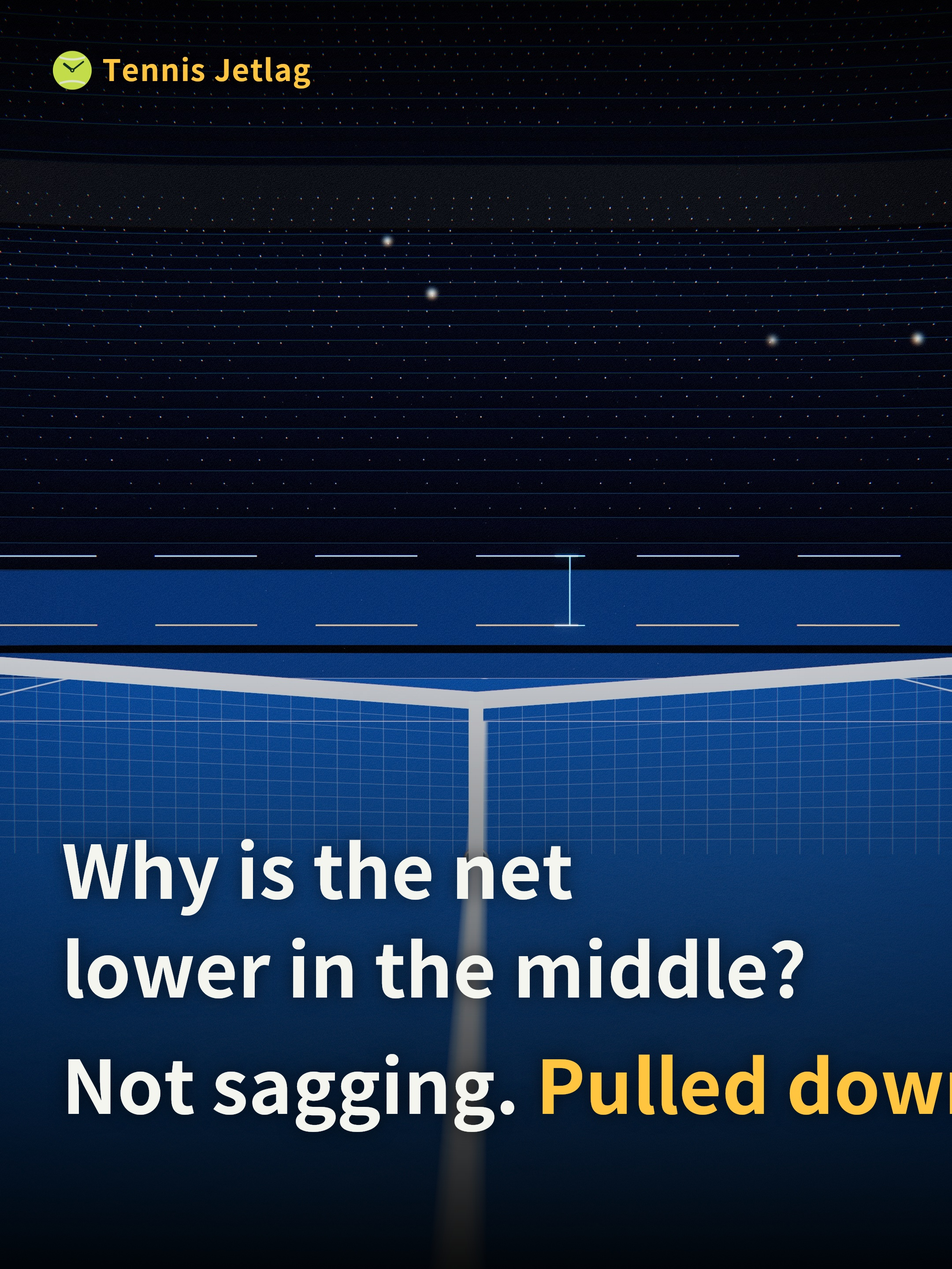
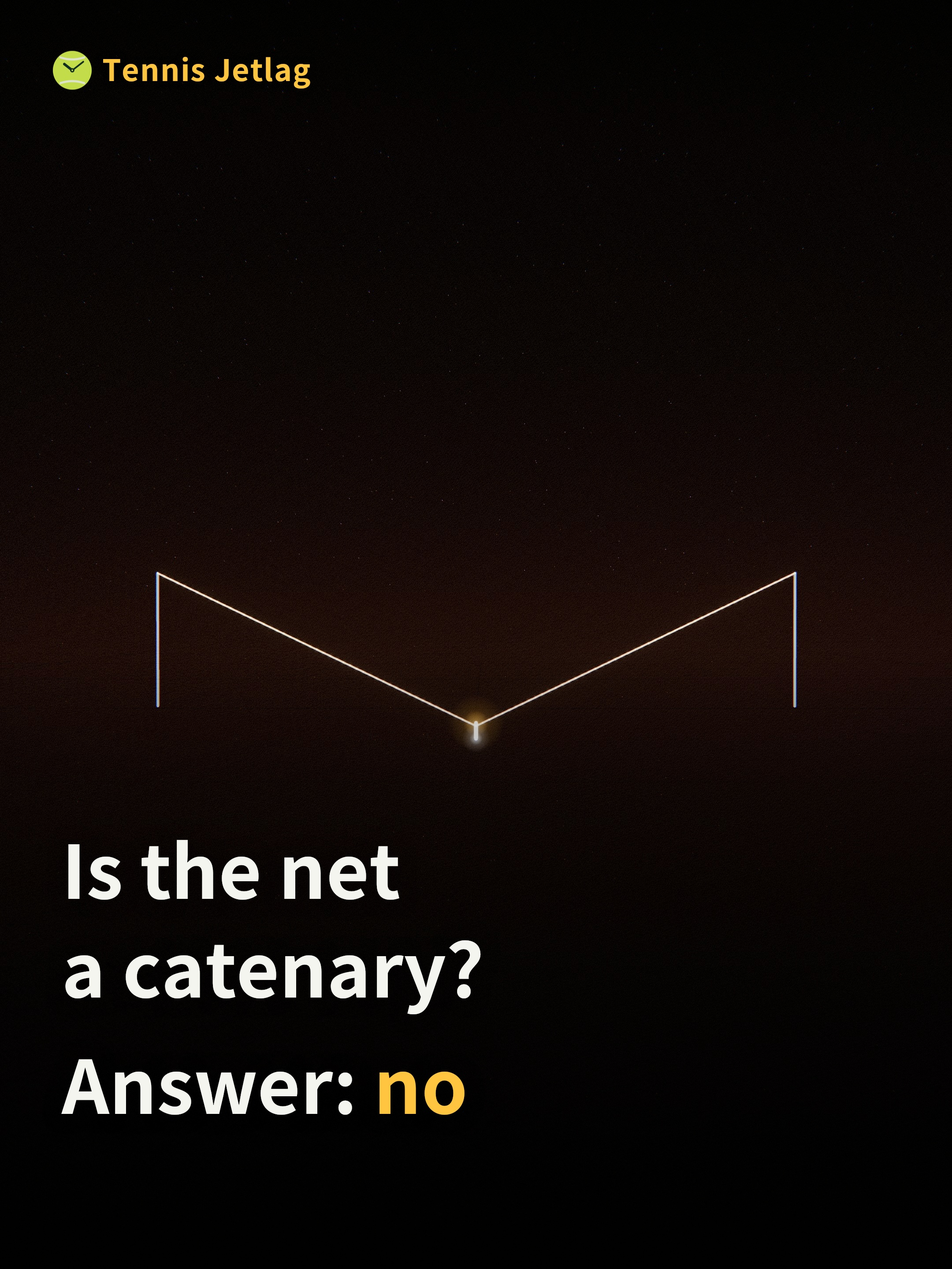
vibetennis: EP13 英文版（无配音，英文画面文字与字幕）成片落库，合并后自动推送 EP13.vibetennis|Dip

diff --git a/output/2026-11-22/vibetennis/vibetennis-net-dip-2026-en/copy.html b/output/2026-11-22/vibetennis/vibetennis-net-dip-2026-en/copy.html
@@ -1,0 +1,318 @@
+<!doctype html>
+<html lang="zh-CN">
+<head>
+  <meta charset="utf-8">
+  <meta name="viewport" content="width=device-width,initial-scale=1,viewport-fit=cover">
+  <title>复制发布文案</title>
+  <style>
+
+:root {
+  --tl-brand-bar: linear-gradient(90deg,#c6f65a 0%,#37e29a 34%,#ff5a6a 67%,#4bb8ff 100%);
+  --tl-radius: 10px;
+  --tl-radius-sm: 6px;
+  --tl-radius-md: 8px;
+  --tl-radius-lg: 10px;
+  --tl-radius-xl: 14px;
+  --tl-radius-full: 999px;
+  --tl-radius-hairline: 2px;
+  --tl-text-xs: 12px;
+  --tl-text-sm: 13px;
+  --tl-text-base: 15px;
+  --tl-text-lg: 18px;
+  --tl-text-xl: 22px;
+  --tl-text-2xl: 28px;
+  --tl-font-sans: -apple-system,"PingFang SC","Noto Sans CJK SC","Microsoft YaHei",sans-serif;
+  --tl-duration-press: 120ms;
+  --tl-duration-quick: 150ms;
+  --tl-duration-fast: 250ms;
+  --tl-duration-medium: 350ms;
+  --tl-duration-slow: 400ms;
+  --tl-duration-emphasis: 500ms;
+  --tl-duration-stagger: 40ms;
+  --tl-ease-out: cubic-bezier(0.22,1,0.36,1);
+  --tl-ease-spring: cubic-bezier(0.34,1.35,0.64,1);
+}
+
+:root[data-theme="dark"] {
+  color-scheme: dark;
+  --tl-background: #080e1d;
+  --tl-card: #15243a;
+  --tl-muted: #20324e;
+  --tl-hero-glow: #304d76;
+  --tl-foreground: #f4fbf7;
+  --tl-subtitle-foreground: #e7f3ec;
+  --tl-muted-foreground: #cfe6d8;
+  --tl-subtle-foreground: #a9bcb2;
+  --tl-border: #ffffff1a;
+  --tl-input: #ffffff26;
+  --tl-ring: #c6f65a8c;
+  --tl-primary: #c6f65a;
+  --tl-primary-foreground: #080e1d;
+  --tl-secondary: #20324e;
+  --tl-secondary-foreground: #f4fbf7;
+  --tl-link: #cfe6d8;
+  --tl-success: #4adc8c;
+  --tl-warning: #ffd166;
+  --tl-destructive: #ff5a6a;
+  --tl-info: #4bb8ff;
+  --tl-fill: #8fd6a8;
+  --tl-success-chip: #143927;
+  --tl-warning-chip: #2d3722;
+  --tl-destructive-chip: #2d2623;
+  --tl-info-chip: #143437;
+  --tl-chart-1: #c6f65a;
+  --tl-chart-2: #8fd6a8;
+  --tl-chart-3: #8b9892;
+  --tl-chart-4: #5d6b65;
+  --tl-chart-5: #3a4a44;
+  --tl-shadow-card: 0 0 0 1px rgba(255,255,255,.10);
+  --tl-shadow-raised: 0 0 0 1px rgba(255,255,255,.13),0 1px 2px rgba(0,0,0,.2),0 2px 6px rgba(0,0,0,.2);
+  --tl-shadow-overlay: 0 0 0 1px rgba(255,255,255,.15),0 8px 28px rgba(0,0,0,.34);
+}
+
+:root[data-theme="light"] {
+  color-scheme: light;
+  --tl-background: #f6f7f4;
+  --tl-card: #ffffff;
+  --tl-muted: #eef2ef;
+  --tl-foreground: #17251f;
+  --tl-muted-foreground: #5f6f68;
+  --tl-subtle-foreground: #5f6f68;
+  --tl-border: #e6ebe8;
+  --tl-input: #d8e2dc;
+  --tl-ring: #17251f;
+  --tl-primary: #c6f65a;
+  --tl-primary-foreground: #080e1d;
+  --tl-secondary: #20324e;
+  --tl-secondary-foreground: #ffffff;
+  --tl-link: #5f6f68;
+  --tl-success: #087747;
+  --tl-warning: #846405;
+  --tl-destructive: #c0392b;
+  --tl-info: #0a6ea4;
+  --tl-success-chip: #e1efe9;
+  --tl-warning-chip: #f0ece1;
+  --tl-destructive-chip: #f7e7e6;
+  --tl-info-chip: #e2eef4;
+  --tl-shadow-card: 0 0 0 1px rgba(0,0,0,.06),0 1px 3px rgba(0,0,0,.04);
+  --tl-shadow-raised: 0 0 0 1px rgba(0,0,0,.08),0 1px 2px rgba(0,0,0,.06),0 2px 6px rgba(0,0,0,.06);
+  --tl-shadow-overlay: 0 4px 42px rgba(0,0,0,.06),0 2px 6px rgba(0,0,0,.05),0 0 0 1px rgba(0,0,0,.06);
+}
+
+:root:not([data-theme="light"]):not([data-theme="dark"]) {
+  color-scheme: light;
+  --tl-background: #f6f7f4;
+  --tl-card: #ffffff;
+  --tl-muted: #eef2ef;
+  --tl-foreground: #17251f;
+  --tl-muted-foreground: #5f6f68;
+  --tl-subtle-foreground: #5f6f68;
+  --tl-border: #e6ebe8;
+  --tl-input: #d8e2dc;
+  --tl-ring: #17251f;
+  --tl-primary: #c6f65a;
+  --tl-primary-foreground: #080e1d;
+  --tl-secondary: #20324e;
+  --tl-secondary-foreground: #ffffff;
+  --tl-link: #5f6f68;
+  --tl-success: #087747;
+  --tl-warning: #846405;
+  --tl-destructive: #c0392b;
+  --tl-info: #0a6ea4;
+  --tl-success-chip: #e1efe9;
+  --tl-warning-chip: #f0ece1;
+  --tl-destructive-chip: #f7e7e6;
+  --tl-info-chip: #e2eef4;
+  --tl-shadow-card: 0 0 0 1px rgba(0,0,0,.06),0 1px 3px rgba(0,0,0,.04);
+  --tl-shadow-raised: 0 0 0 1px rgba(0,0,0,.08),0 1px 2px rgba(0,0,0,.06),0 2px 6px rgba(0,0,0,.06);
+  --tl-shadow-overlay: 0 4px 42px rgba(0,0,0,.06),0 2px 6px rgba(0,0,0,.05),0 0 0 1px rgba(0,0,0,.06);
+}
+
+@media (prefers-color-scheme: dark) {
+  :root:not([data-theme="light"]):not([data-theme="dark"]) {
+    color-scheme: dark;
+    --tl-background: #080e1d;
+    --tl-card: #15243a;
+    --tl-muted: #20324e;
+    --tl-hero-glow: #304d76;
+    --tl-foreground: #f4fbf7;
+    --tl-subtitle-foreground: #e7f3ec;
+    --tl-muted-foreground: #cfe6d8;
+    --tl-subtle-foreground: #a9bcb2;
+    --tl-border: #ffffff1a;
+    --tl-input: #ffffff26;
+    --tl-ring: #c6f65a8c;
+    --tl-primary: #c6f65a;
+    --tl-primary-foreground: #080e1d;
+    --tl-secondary: #20324e;
+    --tl-secondary-foreground: #f4fbf7;
+    --tl-link: #cfe6d8;
+    --tl-success: #4adc8c;
+    --tl-warning: #ffd166;
+    --tl-destructive: #ff5a6a;
+    --tl-info: #4bb8ff;
+    --tl-fill: #8fd6a8;
+    --tl-success-chip: #143927;
+    --tl-warning-chip: #2d3722;
+    --tl-destructive-chip: #2d2623;
+    --tl-info-chip: #143437;
+    --tl-chart-1: #c6f65a;
+    --tl-chart-2: #8fd6a8;
+    --tl-chart-3: #8b9892;
+    --tl-chart-4: #5d6b65;
+    --tl-chart-5: #3a4a44;
+    --tl-shadow-card: 0 0 0 1px rgba(255,255,255,.10);
+    --tl-shadow-raised: 0 0 0 1px rgba(255,255,255,.13),0 1px 2px rgba(0,0,0,.2),0 2px 6px rgba(0,0,0,.2);
+    --tl-shadow-overlay: 0 0 0 1px rgba(255,255,255,.15),0 8px 28px rgba(0,0,0,.34);
+  }
+}
+
+@media (prefers-reduced-motion: reduce) {
+  :root {
+    --tl-duration-press: .01ms;
+    --tl-duration-quick: .01ms;
+    --tl-duration-fast: .01ms;
+    --tl-duration-medium: .01ms;
+    --tl-duration-slow: .01ms;
+    --tl-duration-emphasis: .01ms;
+    --tl-duration-stagger: .01ms;
+  }
+  *, *::before, *::after {
+    animation-duration: .01ms !important;
+    animation-iteration-count: 1 !important;
+    transition-duration: .01ms !important;
+    scroll-behavior: auto !important;
+  }
+}
+  </style>
+  <style>
+* { box-sizing: border-box; }
+html { -webkit-text-size-adjust: 100%; }
+body { margin: 0; background: var(--tl-background); color: var(--tl-foreground);
+  font-family: var(--tl-font-sans); -webkit-tap-highlight-color: transparent; }
+main { width: min(100%, 680px); margin: 0 auto;
+  padding: 20px max(16px, env(safe-area-inset-right))
+    calc(40px + env(safe-area-inset-bottom)) max(16px, env(safe-area-inset-left)); }
+h1 { margin: 0 0 6px; font-size: var(--tl-text-xl); font-weight: 600; line-height: 1.3; }
+.sub { margin: 0 0 20px; color: var(--tl-muted-foreground); font-size: var(--tl-text-sm); }
+section { margin-top: 20px; }
+.label { display: flex; align-items: center; justify-content: space-between; gap: 12px;
+  margin-bottom: 8px; font-size: var(--tl-text-base); font-weight: 600; }
+button { min-height: 44px; min-width: 104px; padding: 0 16px; border: 0;
+  border-radius: var(--tl-radius-md); background: var(--tl-primary);
+  color: var(--tl-primary-foreground); font: 600 var(--tl-text-base)/1 var(--tl-font-sans);
+  cursor: pointer; touch-action: manipulation;
+  transition: transform var(--tl-duration-press) var(--tl-ease-out),
+    background-color var(--tl-duration-quick) var(--tl-ease-out),
+    color var(--tl-duration-quick) var(--tl-ease-out),
+    box-shadow var(--tl-duration-quick) var(--tl-ease-out); }
+button:active { transform: scale(.97); }
+button.copied { background: var(--tl-muted); color: var(--tl-foreground); }
+button:focus-visible, textarea:focus-visible { outline: 2px solid var(--tl-ring);
+  outline-offset: 2px; }
+@media (hover: hover) and (pointer: fine) {
+  button:hover { box-shadow: var(--tl-shadow-raised); }
+}
+textarea { display: block; width: 100%; resize: vertical; border: 1px solid var(--tl-input);
+  border-radius: var(--tl-radius-md); background: var(--tl-card); color: var(--tl-foreground);
+  padding: 12px; font: var(--tl-text-base)/1.7 var(--tl-font-sans); }
+#title { min-height: 76px; }
+.alt { min-height: 52px; }
+#body { min-height: 55vh; }
+#comment { min-height: 118px; }
+#toast { position: fixed; left: 50%; bottom: calc(24px + env(safe-area-inset-bottom));
+  width: max-content; max-width: calc(100% - 32px); text-align: center;
+  background: var(--tl-foreground); color: var(--tl-background);
+  box-shadow: var(--tl-shadow-overlay); padding: 10px 16px;
+  border-radius: var(--tl-radius-md); font-size: var(--tl-text-base); line-height: 1.5;
+  opacity: 0; pointer-events: none; transform: translate(-50%, 8px);
+  transition: opacity var(--tl-duration-quick) var(--tl-ease-out),
+    transform var(--tl-duration-quick) var(--tl-ease-out); }
+#toast.show { opacity: 1; transform: translate(-50%, 0);
+  transition-duration: var(--tl-duration-fast); }
+@media (prefers-reduced-motion: reduce) {
+  #toast, #toast.show { transform: translate(-50%, 0); }
+  button:active { transform: none; }
+}
+  </style>
+</head>
+<body>
+  <main>
+    <h1>发布文案</h1>
+    <p class="sub">标题和正文已分开，可直接粘贴到发布页。</p>
+    <section>
+      <div class="label"><span>标题</span><button type="button" data-copy="title">复制标题</button></div>
+      <textarea id="title" readonly>EP13.vibetennis|Dip</textarea>
+    </section>
+    <section>
+      <div class="label"><span>正文</span><button type="button" data-copy="body">复制正文</button></div>
+      <textarea id="body" readonly>Why is the net lower in the middle? Not sagging. Pulled down.
+
+1.07 m at the posts, 0.914 m at the centre: 15.6 cm lower.
+
+Is it just slack? A rope hanging between two points makes a catenary, solved in 1691. But the net is not a catenary.
+
+The cord is tensioned to 1.8–2.0 kN (ITF guidance). With the centre strap loose, the middle sits near 99 cm. Pull the strap down: 91.4 cm. A point pulled down turns both sides into straight lines: a shallow V.
+
+History: at the first Wimbledon in 1877 the posts were 5 ft and the centre 3 ft 3 in. By 1882 the posts were 3 ft 6 in and the centre 3 ft, as today.
+
+Crosscourt is safer: the diagonal is 25.15 m, 1.38 m longer, and it crosses the lowest part of the net. In a simple model at 100 km/h, crosscourt clears by about 45 cm versus about 30 cm down the line. Pros agree: from the backhand corner, 52.9% crosscourt, 17.4% down the line.
+
+Will you watch the centre strap next time?
+
+#vibetennis #vibe知识大赏 #网球时差 #tennis #physics</textarea>
+    </section>
+    
+  </main>
+  <div id="toast" role="status" aria-live="polite"></div>
+  <script>
+const toast = document.getElementById('toast');
+const labels = {body: '正文已复制', comment: '评论已复制'};
+const buttonTimers = new Map();
+let toastTimer = 0;
+function say(text, ms) {
+  toast.textContent = text;
+  toast.classList.add('show');
+  clearTimeout(toastTimer);
+  toastTimer = setTimeout(() => toast.classList.remove('show'), ms);
+}
+function restore(button) {
+  clearTimeout(buttonTimers.get(button));
+  if (button.dataset.label) button.textContent = button.dataset.label;
+  button.classList.remove('copied');
+}
+function selectAll(field) {
+  field.focus();
+  field.select();
+  try { field.setSelectionRange(0, field.value.length); } catch (_) {}
+}
+async function copyText(id, button) {
+  const field = document.getElementById(id);
+  let ok = false;
+  try {
+    await navigator.clipboard.writeText(field.value);
+    ok = true;
+  } catch (_) {
+    selectAll(field);
+    try { ok = document.execCommand('copy') === true; } catch (_) { ok = false; }
+  }
+  if (!ok) {
+    restore(button);
+    selectAll(field);
+    say('复制失败，已帮你选中，长按拷贝', 2600);
+    return;
+  }
+  if (document.activeElement === field) field.blur();
+  say(labels[id] || '标题已复制', 1400);
+  if (!button.dataset.label) button.dataset.label = button.textContent;
+  button.textContent = '已复制 ✓';
+  button.classList.add('copied');
+  clearTimeout(buttonTimers.get(button));
+  buttonTimers.set(button, setTimeout(() => restore(button), 1400));
+}
+document.querySelectorAll('[data-copy]').forEach((button) => {
+  button.addEventListener('click', () => copyText(button.dataset.copy, button));
+});
+  </script>
+</body>
+</html>

diff --git a/tools/vibetennis/episodes/vibetennis-net-dip-2026/PROGRESS.md b/tools/vibetennis/episodes/vibetennis-net-dip-2026/PROGRESS.md
@@ -30,3 +30,15 @@
 - 11-22 10:43 第2步：v2 finalize.py＋qc.py 0 项不合格（-14.8 LUFS / -3.1 dBTP / 242.10s，film ded513b8）；motion_check 最大 12.0≤12、硬切 0（/workspace/ep13_tmp/motion_zh_v2.log）；海报已换 B（opt_B_tall_zh），spec cover 已改，旧 A 改名 *_A_v1
 - 11-22 10:46 glow_check --pair 修正段 29.7/30.5/31.5/32.5s 全 ✓（gain ≤0.21；/workspace/ep13_tmp/glow）。下一步 release.py
 - 11-22 10:47 第4步：release.py 已传 Release vibetennis-vibetennis-net-dip-2026（236.2 MB），写 copy.html；接着提交、推分支、开 PR
+- 11-22 10:47 分支已推，PR #1501 https://github.com/robertyang87/tennislive/pull/1501（只含中文 render.json）；等检查后合并
+- 11-22 11:01 PR #1501 CI：20 项失败与 main 最新一次完全相同（存量，和本集无关）；合并
+- 11-22 11:03 已合并 c5acf99e4；auto-push-vibetennis run 44978745523 在跑
+- 11-22 11:03 第5步：中文已推微信 https://www.pushplus.plus/shortMessage/82665e3370154cfca46963c43c13f946（run 44978745523 success，流水号 82665e33…）；英文 PR 待英文成片后另开
+- 11-22 11:04 英文：34 段完成 30；c06240 在渲（~10 s/帧）；720/960（标签修正）和 3360（起页超时）由 en_chain.sh 第二轮补，之后自动合成英文，预计 13:00–14:00 出片
+- 11-22 17:36 英文卡住诊断：cap.js 6240 段从 10:29 起 mp4 不再增长、node/chromium/ffmpeg 全部 sleeping、0% CPU（p.evaluate 无超时，chromium 渲染进程在虚机挂起/恢复后不再响应）；已杀掉 en_chain/render_en/cap.js 及其 chromium。改用带看门狗的 en_patch/render_en2.sh
+- 11-22 17:37 起 en_patch/en_chain2.sh（K=4，看门狗 600 s 无进展/5400 s 超时即杀组重试 ×3）→ assemble en → 720p 预览 → motion；日志 /workspace/ep13_en_chain2.log、ep13_en_render2.log
+- 11-22 17:51 英文 3D 局部重渲完成（r3d/seg_en，render_en2）
+- 11-22 17:57 英文 45 段首尾相接 0–7260 无缺口；glow_check --pair 英文标签段 29.7/30.5/31.5/32.5s 全 ✓（/workspace/ep13_tmp/glow_en）
+- 11-22 18:04 英文成片合成完：vibetennis-net-dip-2026-en_push.mp4
+- 11-22 18:05 英文预览 /workspace/ep13_preview/EP13_en_preview_720p.mp4；motion 见 /workspace/ep13_tmp/motion_en.log
+- 11-22 18:11 英文 finalize＋qc.py 0 项不合格（242.10s，-14.1 LUFS / -3.0 dBTP，film cca96482），motion 最大 11.7、硬切 0；预览 /workspace/ep13_preview/EP13_en_preview_720p.mp4（111 MB）。未推送、未开 PR、未传 Release，等 Robert 审。待看：203s 附近三行字幕贴近底部出处说明；扇形图「down the line, unforced errors」标签被扇形压住
